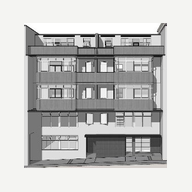
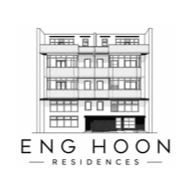
update photo

diff --git a/index.html b/index.html
@@ -9,7 +9,7 @@
     <link rel="manifest" href="./manifest.webmanifest" />
     <link rel="icon" href="./icon-192.png" />
     <link rel="apple-touch-icon" href="./icon-192.png" />
-    <link rel="stylesheet" href="./styles.css?v=24" />
+    <link rel="stylesheet" href="./styles.css?v=25" />
     <title>Invoice Studio</title>
   </head>
   <body>
@@ -19,7 +19,7 @@
 
     <header class="app-header">
       <div class="brand-lockup">
-        <img src="./eng-hoon-residences-logo.jpeg" alt="" width="44" height="44" />
+        <img src="./eng-hoon-residences-logo.png" alt="" width="44" height="44" />
         <div>
           <p class="brand-name">Invoice Studio</p>
           <p class="brand-subtitle">Eng Hoon Residences</p>
@@ -191,7 +191,7 @@
                     </div>
                   </dl>
                 </div>
-                <img class="invoice-logo" src="./eng-hoon-residences-logo.jpeg" alt="Eng Hoon Residences" width="132" height="134" />
+                <img class="invoice-logo" src="./eng-hoon-residences-logo.png" alt="Eng Hoon Residences" width="132" height="117" />
               </header>
 
               <section class="billing-grid" aria-label="Billing parties">
@@ -277,7 +277,7 @@
 
     <div id="toast" class="toast" role="status" aria-live="polite" hidden></div>
     <noscript>This app needs JavaScript to create invoices.</noscript>
-    <script src="./vendor/html2pdf.bundle.min.js?v=24" defer></script>
-    <script src="./app.js?v=24" defer></script>
+    <script src="./vendor/html2pdf.bundle.min.js?v=25" defer></script>
+    <script src="./app.js?v=25" defer></script>
   </body>
 </html>

diff --git a/tests/app.test.js b/tests/app.test.js
@@ -857,12 +857,12 @@ test("invoice editor behavior, responsive layout, draft, print, and offline shel
   assert.ok(mobileHistoryLayout.records.every(record => record.actionWidths.every(width => width >= 44)));
   await page.send("Emulation.setDeviceMetricsOverride", { width: 1440, height: 900, deviceScaleFactor: 1, mobile: false });
 
-  const cacheReady = await waitFor(() => evaluate(page, "caches.keys().then(keys => keys.includes('invoice-studio-v24'))"));
+  const cacheReady = await waitFor(() => evaluate(page, "caches.keys().then(keys => keys.includes('invoice-studio-v25'))"));
   assert.equal(cacheReady, true);
   const workerSource = await readFile(join(ROOT, "sw.js"), "utf8");
   const handlers = {};
   const deletedCaches = [];
-  const cacheKeys = ["invoice-studio-v1", "invoice-studio-v24", "unrelated-app-cache"];
+  const cacheKeys = ["invoice-studio-v1", "invoice-studio-v25", "unrelated-app-cache"];
   const workerContext = {
     URL,
     Response,

diff --git a/sw.js b/sw.js
@@ -1,12 +1,12 @@
-const CACHE_NAME = "invoice-studio-v24";
+const CACHE_NAME = "invoice-studio-v25";
 const APP_SHELL = [
   "./",
   "./index.html",
-  "./styles.css?v=24",
-  "./vendor/html2pdf.bundle.min.js?v=24",
-  "./app.js?v=24",
+  "./styles.css?v=25",
+  "./vendor/html2pdf.bundle.min.js?v=25",
+  "./app.js?v=25",
   "./manifest.webmanifest",
-  "./eng-hoon-residences-logo.jpeg",
+  "./eng-hoon-residences-logo.png",
   "./icon-192.png",
   "./icon-512.png"
 ];
